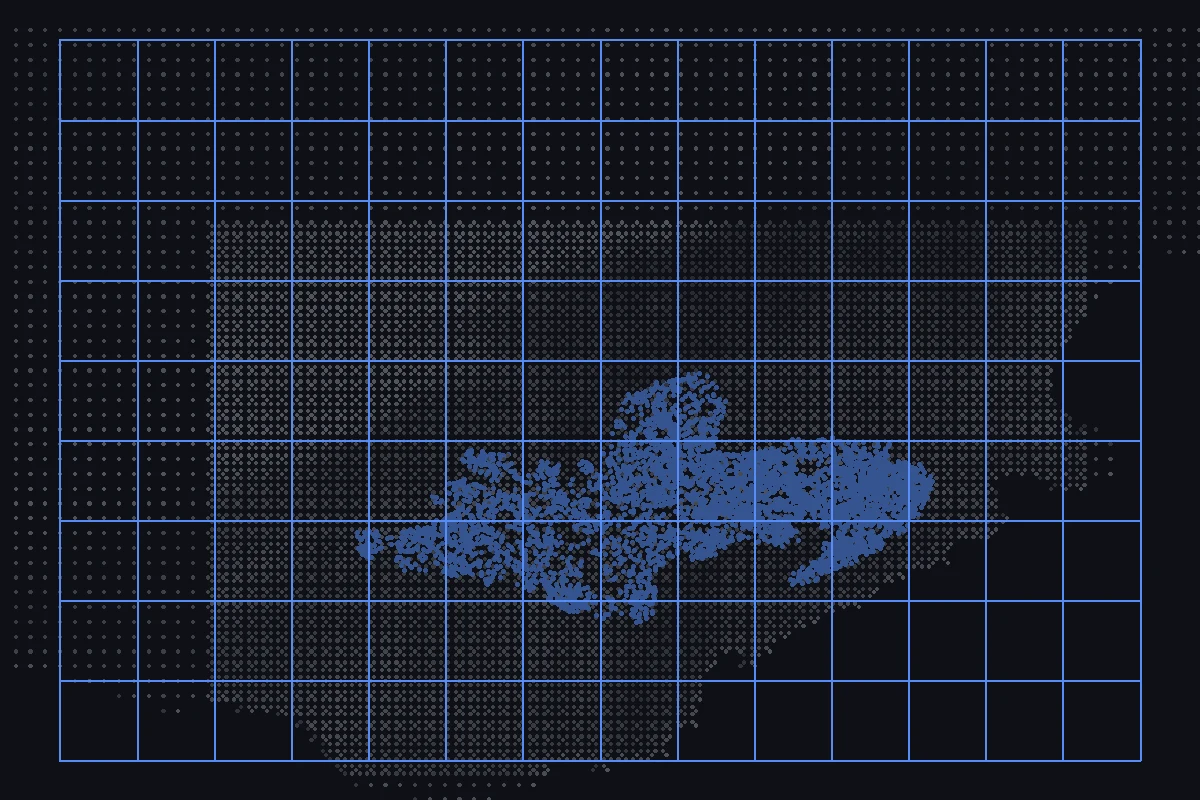
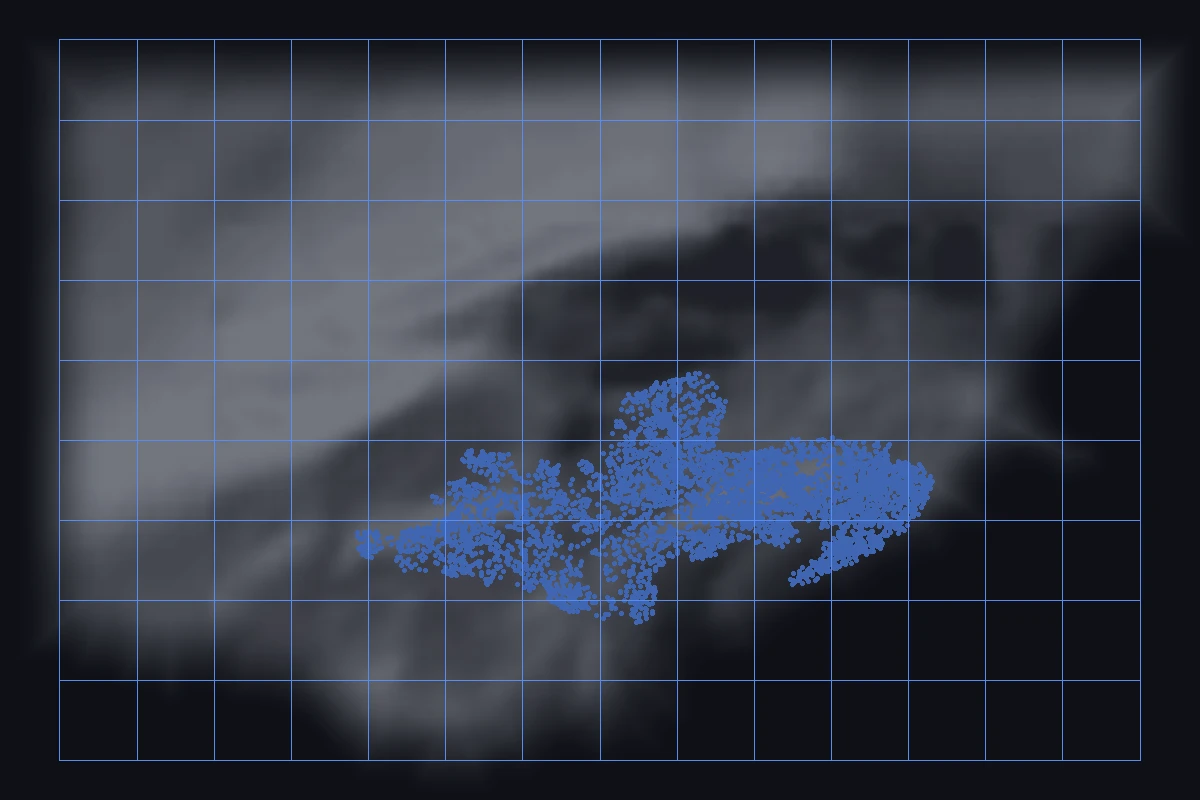
Vidigal abstract: terrain drawn as a smooth shaded surface, footprints stay points

diff --git a/scripts/make-vidigal-abstract.py b/scripts/make-vidigal-abstract.py
@@ -2,7 +2,7 @@
 """The three panels of the Vidigal visual abstract (scan, model, measure), drawn
 from public/data/vidigal-rooftops.bin only, at the resolution it already ships.
 The third panel is an empty grid: no indicator is computed or coloured.
-Host tooling (Pillow), run by hand; outputs committed.
+Host tooling (Pillow, numpy, scipy), run by hand; outputs committed.
 
     python3 scripts/make-vidigal-abstract.py
 """
@@ -11,7 +11,10 @@ import math
 import struct
 from pathlib import Path
 
-from PIL import Image, ImageDraw
+import numpy as np
+from PIL import Image, ImageDraw, ImageFilter
+from scipy import ndimage
+from scipy.spatial import Delaunay
 
 ROOT = Path(__file__).parent.parent
 OUT = ROOT / "public/projects/urban-morphometrics"
@@ -56,12 +59,54 @@ def plan(p):
     return (p[0], p[1], p[2])
 
 
-def draw(name, view, colour, radius, fill, grid=False):
-    proj = sorted(((*view(p), p) for p in pts), key=lambda q: q[2])
-    s, cx, cy = fit([(q[0], q[1]) for q in proj], fill)
-    im = Image.new("RGB", (W, H), BG)
+SS = 3
+
+
+def terrain_surface(view, s, cx, cy):
+    """Terrain as an opaque shaded surface: Delaunay mesh in plan, projected by `view`,
+    painted far to near, then softened; the outline dissolves into the page colour."""
+    t = [p for p in pts if p[3] in (0, 3)]
+    xy = np.array([(p[0], p[1]) for p in t])
+    tri = Delaunay(xy)
+    proj = [view(p) for p in t]
+    sh = np.array([p[4] for p in t])
+    step = np.median(np.linalg.norm(xy[tri.simplices[:, 0]] - xy[tri.simplices[:, 1]], axis=1))
+    im = Image.new("RGB", (W * SS, H * SS), BG)
     d = ImageDraw.Draw(im)
-    for sx, sy, _, p in proj:
+    mask = Image.new("L", (W * SS, H * SS), 0)
+    md = ImageDraw.Draw(mask)
+    tris = []
+    for a, b, c in tri.simplices:
+        if max(np.linalg.norm(xy[a] - xy[b]), np.linalg.norm(xy[b] - xy[c]), np.linalg.norm(xy[a] - xy[c])) > 2.2 * step * 2:
+            continue
+        tris.append((proj[a][2] + proj[b][2] + proj[c][2], (a, b, c)))
+    tris.sort(key=lambda q: q[0])
+    for _, (a, b, c) in tris:
+        poly = [((W / 2 + (proj[k][0] - cx) * s) * SS, (H / 2 - (proj[k][1] - cy) * s) * SS) for k in (a, b, c)]
+        h = (sh[a] + sh[b] + sh[c]) / 3
+        d.polygon(poly, fill=mix(BG, GREY, 0.12 + 0.62 * h))
+        md.polygon(poly, fill=255)
+    im = im.filter(ImageFilter.GaussianBlur(SS * 3.5)).resize((W, H), Image.LANCZOS)
+    m = np.array(mask.resize((W, H), Image.LANCZOS), dtype=float) / 255
+    inside = ndimage.gaussian_filter(m, 1.5) > 0.5
+    inside[[0, -1], :] = False
+    inside[:, [0, -1]] = False
+    dist = ndimage.distance_transform_edt(inside)
+    a = np.clip(dist / 90.0, 0, 1)
+    a = a * a * (3 - 2 * a)
+    base = np.array(Image.new("RGB", (W, H), BG), dtype=float)
+    out = base + (np.array(im, dtype=float) - base) * a[..., None]
+    return Image.fromarray(out.astype("uint8"))
+
+
+def draw(name, view, colour, radius, fill, grid=False, points=lambda p: True):
+    allp = [(*view(p), p) for p in pts]
+    s, cx, cy = fit([(q[0], q[1]) for q in allp], fill)
+    im = terrain_surface(view, s, cx, cy)
+    d = ImageDraw.Draw(im)
+    for sx, sy, _, p in sorted(allp, key=lambda q: q[2]):
+        if p[3] != 1 or not points(p):
+            continue
         px, py = W / 2 + (sx - cx) * s, H / 2 - (sy - cy) * s
         r = radius(p)
         d.ellipse((px - r, py - r, px + r, py + r), fill=colour(p))
@@ -71,18 +116,14 @@ def draw(name, view, colour, radius, fill, grid=False):
         gy0, gy1 = H * (1 - fill) / 2, H - H * (1 - fill) / 2
         for k in range(n + 1):
             x = gx0 + (gx1 - gx0) * k / n
-            d.line((x, gy0, x, gy1), fill=(86, 140, 246), width=2)
+            d.line((x, gy0, x, gy1), fill=(86, 140, 246), width=1)
         m = round(n * (gy1 - gy0) / (gx1 - gx0))
         for k in range(m + 1):
             y = gy0 + (gy1 - gy0) * k / m
-            d.line((gx0, y, gx1, y), fill=(86, 140, 246), width=2)
-    im.save(OUT / f"vidigal-abstract-{name}.webp", quality=88)
+            d.line((gx0, y, gx1, y), fill=(86, 140, 246), width=1)
+    im.save(OUT / f"vidigal-abstract-{name}.webp", quality=90)
 
 
-draw("scan", oblique, lambda p: GREY if True else GREY, lambda p: 1.5, 0.84)
-draw("model", plan,
-     lambda p: ACCENT if p[3] == 1 else mix(BG, GREY, 0.25 + 0.6 * p[4]),
-     lambda p: 2.2 if p[3] == 1 else 1.8, 0.9)
-draw("measure", plan,
-     lambda p: mix(BG, ACCENT, 0.55) if p[3] == 1 else mix(BG, GREY, 0.2 + 0.3 * p[4]),
-     lambda p: 2.0 if p[3] == 1 else 1.6, 0.9, grid=True)
+draw("scan", oblique, lambda p: (206, 210, 220), lambda p: 1.5, 0.84)
+draw("model", plan, lambda p: ACCENT, lambda p: 2.2, 0.9)
+draw("measure", plan, lambda p: mix(BG, ACCENT, 0.7), lambda p: 2.0, 0.9, grid=True)
